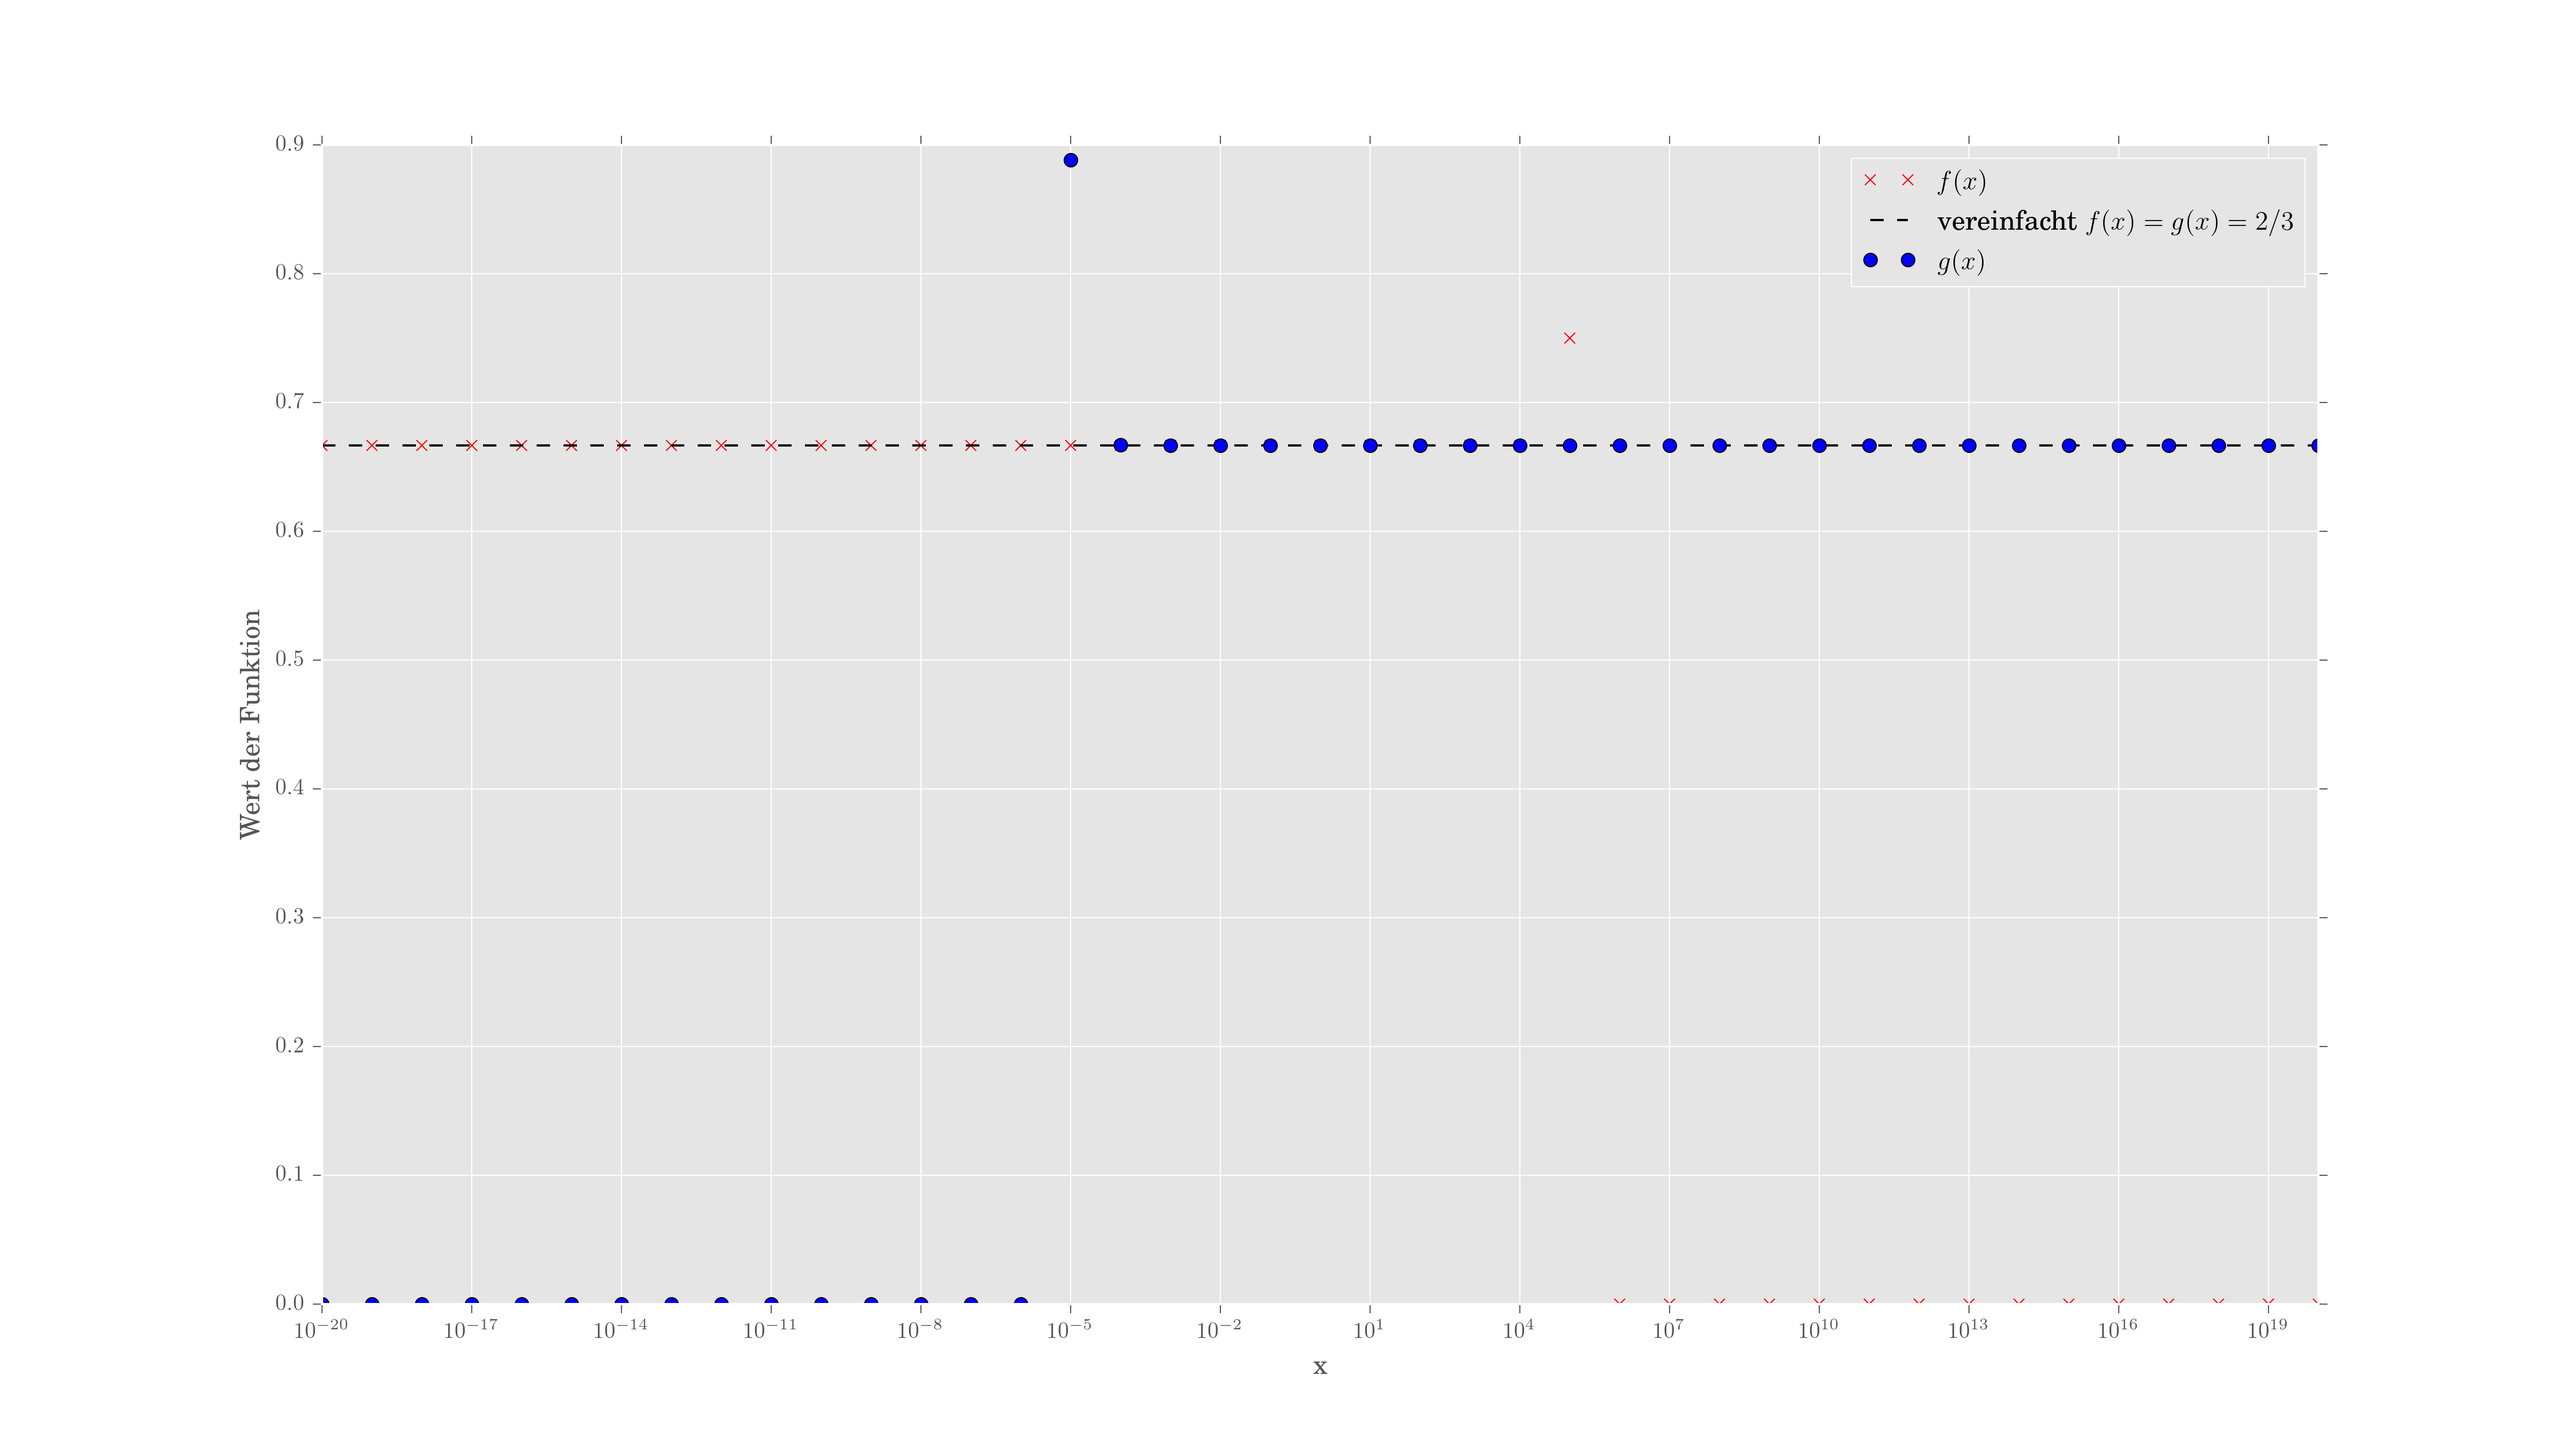
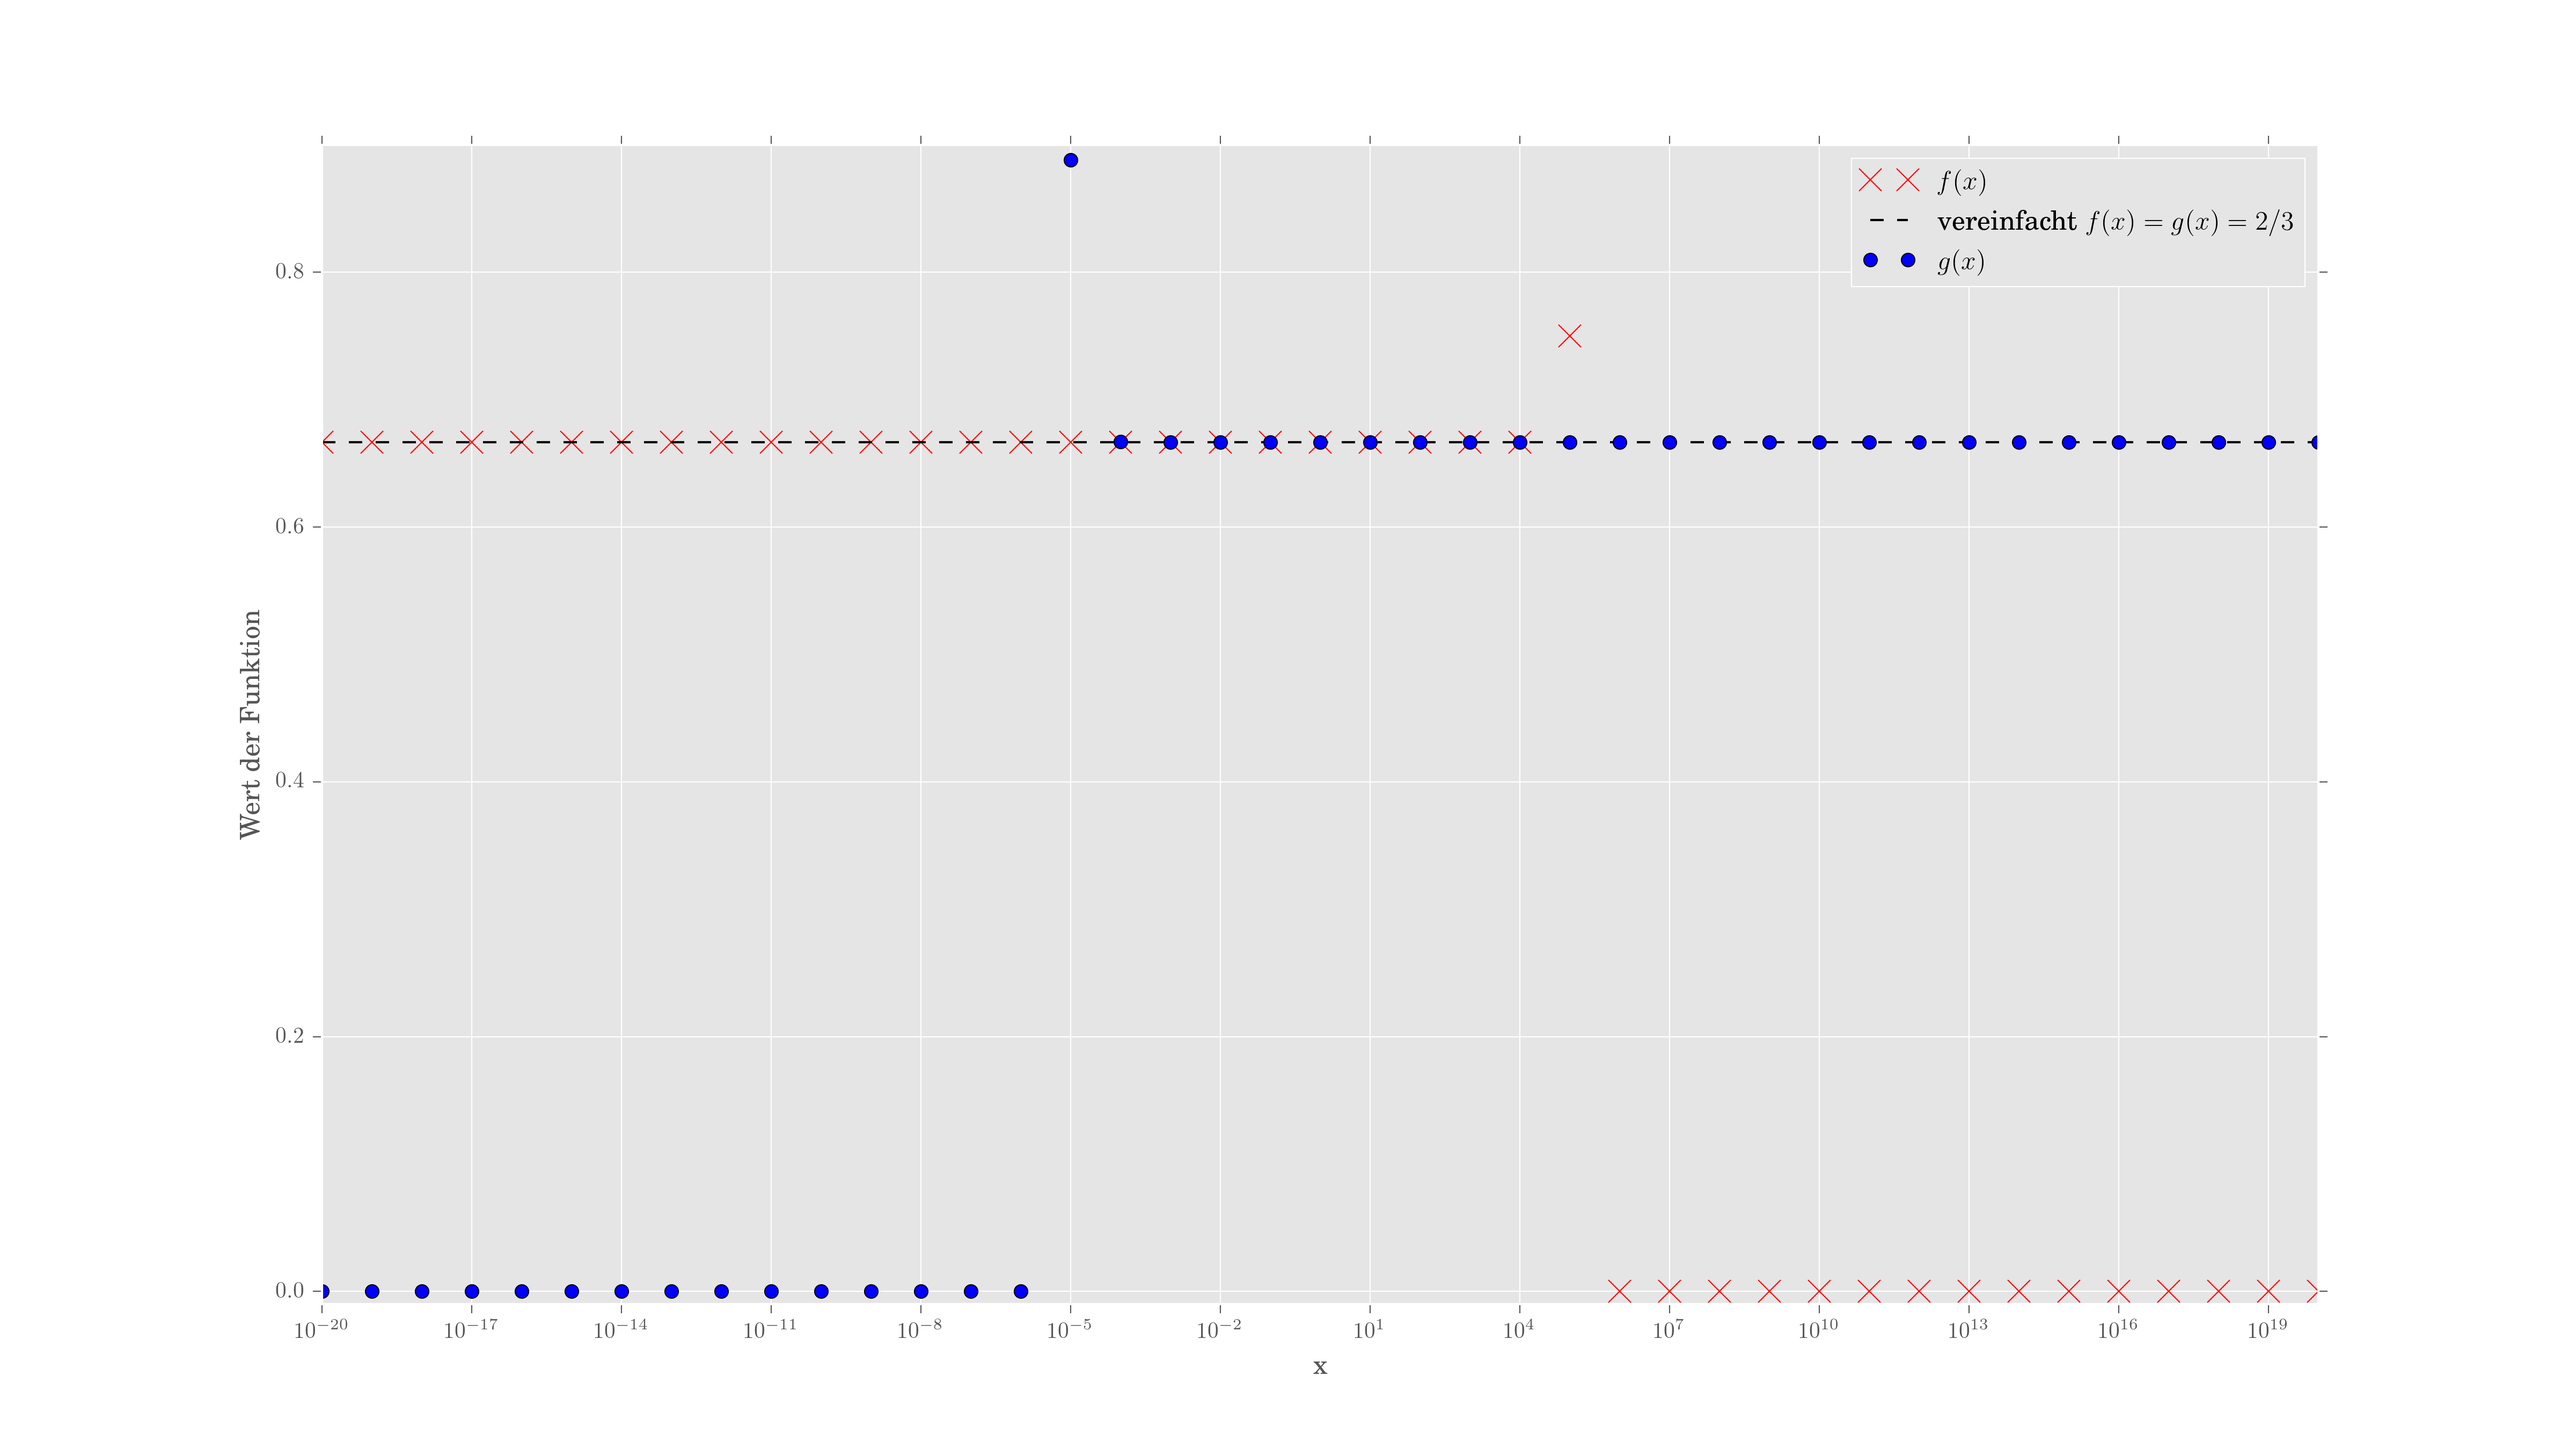
praesenzzettel hinzugefuegt

diff --git a/Blatt00/aufgabe3.py b/Blatt00/aufgabe3.py
@@ -46,13 +46,15 @@ def aufg3():
 
 
 	fig = plt.figure(figsize=(16,9))
-	plt.plot(xx,f(xx),'rx',markersize=5,label=r'$f(x)$')
+	plt.plot(xx,f(xx),'rx',markersize=10,label=r'$f(x)$')
 	plt.plot(xx,f_alg(xx),'k--',label=r'vereinfacht $f(x) = g(x) = 2/3$')
 	plt.plot(xx,g(xx),'bo',label=r'$g(x)$')
 	plt.xlabel(r'x')
 	plt.ylabel(r'Wert der Funktion')
 	plt.xscale('log')
 	#plt.yscale('log')
+	#plt.xlim(-1e-2,1e20)
+	plt.ylim(-1e-2 , 0.9)
 	plt.legend(loc='best')
 	plt.savefig("plot3.png",dpi=300)
 	plt.show()
